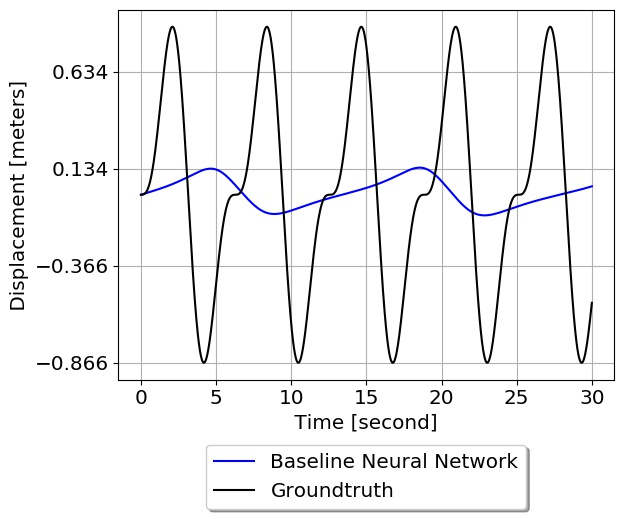
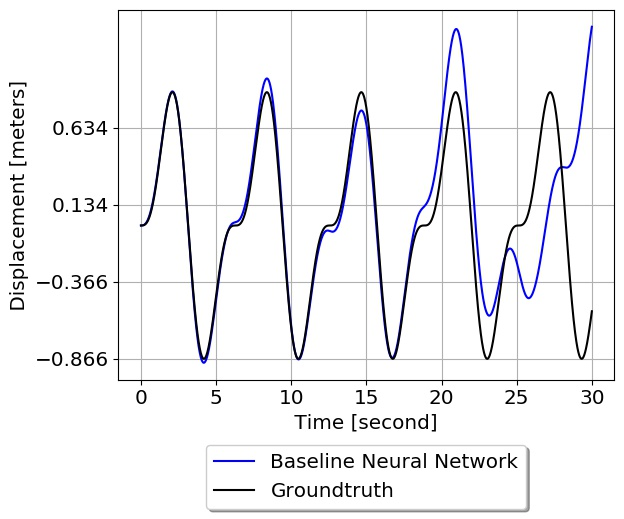
done base nn for external force

diff --git a/2_external_force/train.py b/2_external_force/train.py
@@ -13,8 +13,8 @@ FILE_DIR = os.path.dirname(os.path.abspath(__file__))
 def parse_args():
 	parser = argparse.ArgumentParser(description='parameters setting')
 	parser.add_argument('--seed', default=0, type=int, help='seed for random number')
-	parser.add_argument('--input_dim', default=2, type=int, help='input tensor dimension')
-	parser.add_argument('--hidden_dim', default=200, type=int, help='hidden tensor dimension')
+	parser.add_argument('--input_dim', default=3, type=int, help='input tensor dimension')
+	parser.add_argument('--hidden_dim', default=100, type=int, help='hidden tensor dimension')
 	parser.add_argument('--learn_rate', default=1e-3, type=float, help='hidden tensor dimension')
 	parser.add_argument('--num_steps', default=10000, type=int, help='number of steps')
 	parser.add_argument('--print_every', default=200, type=int, help='print every n steps')
@@ -35,28 +35,28 @@ def train(args):
 	optim = torch.optim.Adam(model.parameters(), args.learn_rate, weight_decay=1e-4)
 	data = get_dataset(seed=args.seed)
 
-	uv = torch.tensor(data['uv'], requires_grad=True, dtype=torch.float32 )
-	test_uv = torch.tensor(data['test_uv'], requires_grad=True, dtype=torch.float32 )
+	uvf = torch.tensor(data['uvf'], requires_grad=True, dtype=torch.float32 )
+	test_uvf = torch.tensor(data['test_uvf'], requires_grad=True, dtype=torch.float32 )
 	duv = torch.Tensor(data['duv'])
 	test_duv = torch.Tensor(data['test_duv'])
 
 	stats = {'train_loss': [], 'test_loss': []}
 	for step in range(args.num_steps + 1):
 		# train step
-		duv_hat = model.time_derivative(uv)
+		duv_hat = model.time_derivative(uvf)
 		loss = L2_loss(duv, duv_hat)
-		if not args.baseline:
-			u, v = uv.split(1,1)
-			du, dv = duv_hat.split(1,1)
+		# if not args.baseline:
+		# 	u, v, f = uvf.split(1,1,1)
+		# 	du, dv = duv_hat.split(1,1)
 
-			energy1 = (u**2 + v**2) 
-			energy2 = (du**2 + dv**2)
-			add_loss = L2_loss(energy1, energy2)
-			loss += add_loss
+		# 	# energy1 = (u**2 + v**2) 
+		# 	# energy2 = (du**2 + dv**2)
+		# 	# add_loss = L2_loss(energy1, energy2)
+		# 	# loss += add_loss
 		loss.backward(); optim.step(); optim.zero_grad();
 
 		# run test data
-		test_duv_hat = model.time_derivative(test_uv)
+		test_duv_hat = model.time_derivative(test_uvf)
 		test_loss = L2_loss(test_duv, test_duv_hat)
 
 		# logging
@@ -65,9 +65,9 @@ def train(args):
 		if step % args.print_every == 0:
 			print("step {}, train_loss {:.4e}, test_loss {:.4e}".format(step, loss.item(), test_loss.item()))
 	
-	train_duv_hat = model.time_derivative(uv)
+	train_duv_hat = model.time_derivative(uvf)
 	train_dist = (duv - train_duv_hat)**2
-	test_duv_hat = model.time_derivative(test_uv)
+	test_duv_hat = model.time_derivative(test_uvf)
 	test_dist = (test_duv - test_duv_hat)**2
 	print('Final train loss {:.4e} +/- {:.4e}\nFinal test loss {:.4e} +/- {:.4e}'
 		.format(train_dist.mean().item(), train_dist.std().item()/np.sqrt(train_dist.shape[0]),

diff --git a/2_external_force/post_process.py b/2_external_force/post_process.py
@@ -1,6 +1,6 @@
 import torch
 import os
-from data import get_dataset, get_rawdata, get_velo, get_disp
+from data import get_dataset, get_rawdata, get_velo, get_disp, get_force
 import matplotlib.pyplot as plt
 from nn_base import BaseNN
 from ecnn import ECNN
@@ -11,8 +11,8 @@ import numpy as np
 # Constants
 args_dict = {
     'seed': 0,
-    'input_dim': 2, 
-    'hidden_dim': 200,
+    'input_dim': 3, 
+    'hidden_dim': 100,
     'learn_rate': 1e-3,
     'num_steps': 2000,
     'print_every': 200,
@@ -35,25 +35,31 @@ def get_model(args, baseline):
     model.load_state_dict(torch.load(path))
     return nn_model
 
+# def get_force(p0, t, omega):
+
 # Integrate Model
-def integrate_model(model, t_span, uv0, **kwargs):
+def integrate_model(model, t_span, p0, omega, uv0, **kwargs):
     damping = kwargs.pop('damping', 0)
     def fun(t, uv_in):
         scale = np.exp( - t * damping)
-        uv = torch.tensor( uv_in, requires_grad=True, dtype=torch.float32 ).view(1,2)
-        duv = model.forward(uv).data.numpy().reshape(-1)
+        f = get_force(p0, t, omega)
+        uvf_in = np.append(uv_in, f)
+        uvf = torch.tensor( uvf_in, requires_grad=True, dtype=torch.float32 ).view(1,3)
+        duv = model.forward(uvf).data.numpy().reshape(-1)
         duv[0] = duv[0] * scale
         return duv
     return solve_ivp(fun=fun, t_span=t_span, y0=uv0, **kwargs)
 
 # Analysis
 base_model = get_model(args, True)
-ecnn_model = get_model(args, False)
+# ecnn_model = get_model(args, False)
 t_span = [0,30]
 uv0 = np.array([0., 0.])
-kwargs = {'t_eval': np.linspace(t_span[0], t_span[1], 2000), 'rtol': 1e-12, 'damping':0.01}
-base_ivp = integrate_model( base_model, t_span, uv0, **kwargs )
-ecnn_ivp = integrate_model( ecnn_model, t_span, uv0, **kwargs )
+p0 = 1
+omega = 2 
+kwargs = {'t_eval': np.linspace(t_span[0], t_span[1], 2000), 'rtol': 1e-12, 'damping':0.0}
+base_ivp = integrate_model( base_model, t_span, p0, omega, uv0, **kwargs )
+# ecnn_ivp = integrate_model( ecnn_model, t_span, p0, omega, uv0, **kwargs )
 
 LINE_SEGMENTS = 10
 base_dis = []
@@ -62,13 +68,12 @@ for i, l in enumerate(np.split(base_ivp['y'].T, LINE_SEGMENTS)):
     base_dis = np.concatenate((base_dis, l[:,0]))
     base_vel = np.concatenate((base_vel, l[:,1]))
 
-fig = plt.figure()
-LINE_SEGMENTS = 10
-ecnn_dis = []
-ecnn_vel = []
-for i, l in enumerate(np.split(ecnn_ivp['y'].T, LINE_SEGMENTS)):
-    ecnn_dis = np.concatenate((ecnn_dis, l[:,0]))
-    ecnn_vel = np.concatenate((ecnn_vel, l[:,1]))
+# fig = plt.figure()
+# ecnn_dis = []
+# ecnn_vel = []
+# for i, l in enumerate(np.split(ecnn_ivp['y'].T, LINE_SEGMENTS)):
+#     ecnn_dis = np.concatenate((ecnn_dis, l[:,0]))
+#     ecnn_vel = np.concatenate((ecnn_vel, l[:,1]))
 
 
 # groundtruth

diff --git a/2_external_force/data.py b/2_external_force/data.py
@@ -27,6 +27,10 @@ def get_acce(p0, k, t, omega, omega_n):
 		) 
 	return acce
 
+def get_force(p0, t, omega):
+	force = p0 * np.sin(omega*t)
+	return force
+
 def get_rawdata(t_span=[0,12.56], num_of_split=10, p0=None, k=1, omega=2, omega_n=1, noise_std=0.1):
 	t_eval = np.linspace(t_span[0], t_span[1], int(num_of_split*t_span[1]-t_span[0]))
 
@@ -37,29 +41,29 @@ def get_rawdata(t_span=[0,12.56], num_of_split=10, p0=None, k=1, omega=2, omega_
 	v = np.array([ get_velo(p0, k, t, omega, omega_n) for t in t_eval ])
 	dudt = np.array([ get_velo(p0, k, t, omega, omega_n) for t in t_eval ])
 	dvdt = np.array([ get_acce(p0, k, t, omega, omega_n) for t in t_eval ])
-
+	f = np.array([ get_force(p0, t, omega) for t in t_eval ])
 
 	u += np.random.randn(*u.shape) * noise_std
 	v += np.random.randn(*v.shape) * noise_std
-	return u, v, dudt, dvdt, t_eval
+	return u, v, f, dudt, dvdt, t_eval
 
 def get_dataset(seed=0, samples=50, test_split=0.5, **kwargs):
 	data = {'meta': locals()}
 
 	np.random.seed(seed)
-	uv = []
+	uvf = []
 	duv = []
 	for idx in range(samples):
-		u, v, dudt, dvdt, t = get_rawdata(**kwargs)
-		uv.append( np.stack( [u,v] ).T )
+		u, v, f, dudt, dvdt, t = get_rawdata(**kwargs)
+		uvf.append( np.stack( [u,v,f] ).T )
 		duv.append( np.stack( [dudt,dvdt] ).T )
 
-	data['uv'] = np.concatenate(uv)
+	data['uvf'] = np.concatenate(uvf)
 	data['duv'] = np.concatenate(duv)
 
-	split_idx = int(len(data['uv']) * test_split ) 
+	split_idx = int(len(data['uvf']) * test_split ) 
 	split_data = {}
-	for d in ['uv', 'duv']:
+	for d in ['uvf', 'duv']:
 		split_data[d], split_data['test_' + d] = data[d][:split_idx], data[d][split_idx:]
 	data = split_data
 	return data
@@ -68,10 +72,10 @@ def get_dataset(seed=0, samples=50, test_split=0.5, **kwargs):
 def plot_dataset(**kwargs):
 	dataset = get_dataset(**kwargs)
 	import matplotlib.pyplot as plt
-	uv = dataset['uv']
+	uvf = dataset['uvf']
 	duv = dataset['duv']
 	print(' plot u, v ... ')
-	plt.scatter(uv[:,0],uv[:,1])
+	plt.scatter(uvf[:,0],uvf[:,1])
 	plt.show()
 
 	print(' plot dudt, dvdt ... ')

diff --git a/2_external_force/ecnn.py b/2_external_force/ecnn.py
@@ -7,9 +7,6 @@ class ECNN(torch.nn.Module):
 		super(ECNN, self).__init__()
 		self.baseline = baseline
 		self.base_model = base_model
-		self.M = self.permutation_tensor(input_dim)
-		# print(' M = {}'.format(self.M))
-		# self.first_call = True
 
 	def forward(self, x):
 		if self.baseline:
@@ -22,21 +19,3 @@ class ECNN(torch.nn.Module):
 			return self.base_model(x)
 
 		return self.base_model(x)
-		# F1, F2 = self.forward(x)
-
-		# differential = torch.zeros_like(x)
-		# diff1 = torch.zeros_like(x)
-		# dF2 = torch.autograd.grad(F2.sum(), x, create_graph=True)[0]
-		# differential = dF2 @ self.M.t()
-		# # if self.first_call :
-		# # 	self.first_call = False
-		# # 	print(' dF2 = {}'.format(dF2))
-		# # 	print(' differential = {}'.format(differential))
-
-		# return diff1 + differential
-
-	def permutation_tensor(self, n):
-		M = torch.eye(n)
-		M = torch.cat([M[n//2:], -M[:n//2]])
-		return M
-

diff --git a/2_external_force/nn_base.py b/2_external_force/nn_base.py
@@ -5,15 +5,13 @@ class BaseNN(torch.nn.Module):
 		super(BaseNN, self).__init__()
 		self.linear1 = torch.nn.Linear(input_dim, hidden_dim)
 		self.linear2 = torch.nn.Linear(hidden_dim, hidden_dim)
-		self.linear3 = torch.nn.Linear(hidden_dim, hidden_dim)
-		self.linear4 = torch.nn.Linear(hidden_dim, output_dim, bias=False)
-		for layer in [self.linear1, self.linear2, self.linear3, self.linear4]:
+		self.linear3 = torch.nn.Linear(hidden_dim, output_dim, bias=False)
+		for layer in [self.linear1, self.linear2, self.linear3]:
 			torch.nn.init.orthogonal_(layer.weight)
 		self.activation = torch.tanh
 
 	def forward(self, x):
-		h1 = self.activation(self.linear1(x))
-		h2 = self.activation(self.linear2(h1)) + h1
-		h3 = self.activation(self.linear3(h2)) + h2 + h1
-		return self.linear4(h3)
+		h = self.activation(self.linear1(x))
+		h = self.activation(self.linear2(h))
+		return self.linear3(h)
 
